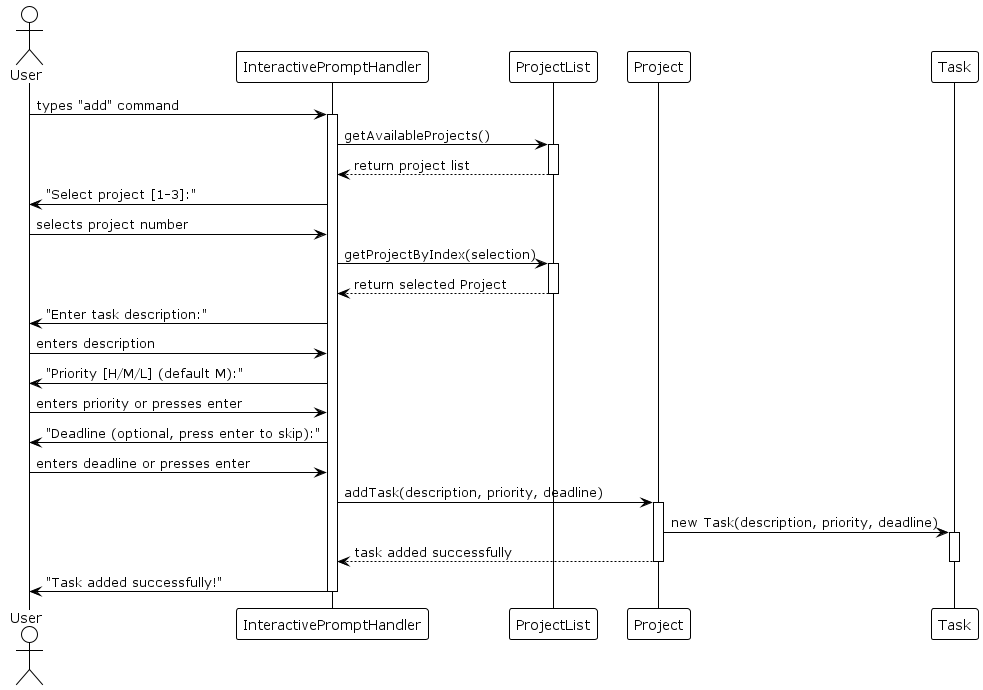
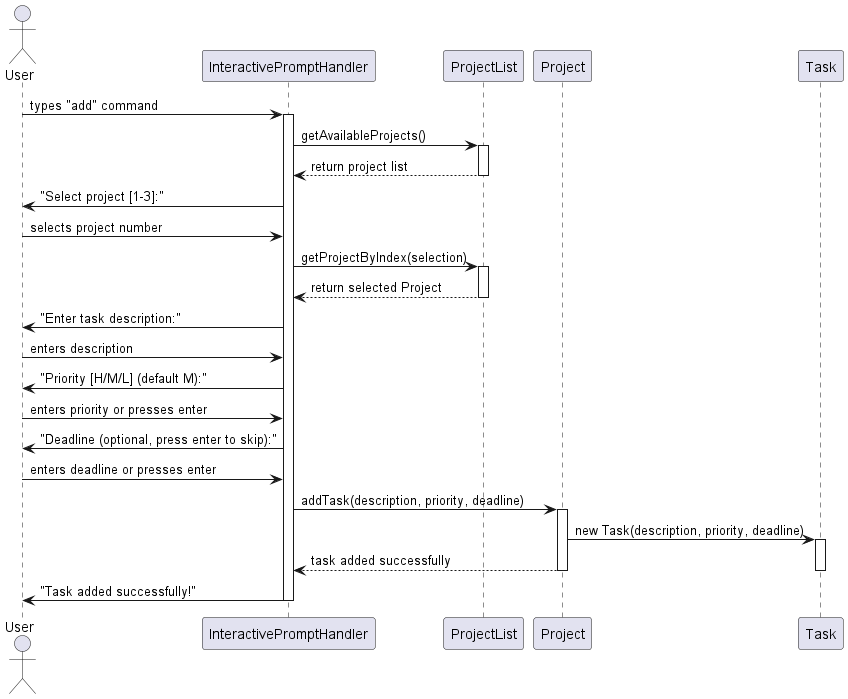
docs: Update UML diagrams and add project portfolio page
- Standardize all PlantUML diagrams to remove formatting inconsistencies
- Add comprehensive Project Portfolio Page for Yao Xiang
- Enable portfolio links in Developer Guide table of contents
- Ensure AB3 compliance for documentation standards

diff --git a/docs/DeveloperGuide.md b/docs/DeveloperGuide.md
@@ -37,7 +37,7 @@ We also acknowledge:
 
 ---
 
-## Architecture (Yao Xiang)
+## Architecture by [Yao Xiang](team/yaoxiang.md)
 
 FlowCLI follows a layered architecture with clear separation of concerns:
 
@@ -273,7 +273,7 @@ An ArrayList container of Project instances offering indexed access, name-lookup
 
 ### Data Processing
 
-#### Task Sorting Algorithm (Yao Xiang)
+#### Task Sorting Algorithm by [Yao Xiang](team/yaoxiang.md)
 
 The sorting algorithm supports sorting tasks by deadline or priority in ascending/descending order:
 
@@ -286,7 +286,7 @@ The sorting algorithm supports sorting tasks by deadline or priority in ascendin
 - **Deadline Handling**: Tasks without deadlines are sorted last in ascending order
 - **Priority Mapping**: High(1) > Medium(2) > Low(3)
 
-#### Task Filtering Algorithm (Yao Xiang)
+#### Task Filtering Algorithm by [Yao Xiang](team/yaoxiang.md)
 
 The filtering algorithm supports filtering tasks by priority level and/or project name:
 
@@ -299,9 +299,9 @@ The filtering algorithm supports filtering tasks by priority level and/or projec
 - **Case Insensitive**: Project name and priority filtering ignore case
 - **Multiple Filters**: Can combine priority and project name filters
 
-### Data Persistence (Sean)
+### Data Persistence by [Sean Lee](team/seanlee.md)
 
-#### Export Algorithm (Sean)
+#### Export Algorithm by [Sean Lee](team/seanlee.md)
 
 The export algorithm supports saving project and task data to text files with filtering and sorting capabilities:
 
@@ -336,7 +336,7 @@ ProjectName: [ ] Another Task [priority]
 
 ### **User Interface**
 
-### Interactive Mode (Yao Xiang)
+### Interactive Mode by [Yao Xiang](team/yaoxiang.md)
 
 ![Interactive Mode Overview](plantUML/interactive-mode-overview/interactive-mode-overview.png)
 
@@ -344,7 +344,7 @@ ProjectName: [ ] Another Task [priority]
 
 The interactive mode transforms single-word commands into guided conversations. When a user types "add" without arguments, the system prompts for project selection, task details, and optional fields.
 
-#### Command Processing Sequence (Yao Xiang)
+#### Command Processing Sequence by [Yao Xiang](team/yaoxiang.md)
 
 The overall command processing workflow shows how user input flows through the system components:
 
@@ -352,11 +352,11 @@ The overall command processing workflow shows how user input flows through the s
 
 **Architecture Flow**: User input → CommandHandler → InteractivePromptHandler (if needed) → CommandFactory → Command execution → Result display.
 
-#### Class Diagram: InteractivePromptHandler Structure (Yao Xiang)
+#### Class Diagram: InteractivePromptHandler Structure by [Yao Xiang](team/yaoxiang.md)
 
 ![InteractivePromptHandler Class Diagram](plantUML/interactive-prompt-handler/interactiveprompthandler.png)
 
-#### Interactive Mode Detection (Yao Xiang)
+#### Interactive Mode Detection by [Yao Xiang](team/yaoxiang.md)
 
 The `CommandHandler.shouldUseInteractiveMode()` method determines when to trigger interactive mode:
 
@@ -393,7 +393,7 @@ private boolean shouldUseInteractiveMode(CommandParser.ParsedCommand parsed) {
 
 **Decision Rationale**: Interactive mode is triggered for main commands with empty arguments, preserving backward compatibility.
 
-#### Task Status Display System (Zhen Zhao)
+#### Task Status Display System by [Zhen Zhao](team/zhenzhao.md)
 
 Tasks display completion status using visual markers:
 
@@ -421,9 +421,9 @@ public String toString() {
 3. [ ] Fix bug in parser [low]
 ```
 
-#### Interactive Command Flows (Yao Xiang)
+#### Interactive Command Flows by [Yao Xiang](team/yaoxiang.md)
 
-#### Add Command Flow (Yao Xiang)
+#### Add Command Flow by [Yao Xiang](team/yaoxiang.md)
 
 The add command guides users through project selection, task description, priority, and optional deadline:
 
@@ -436,13 +436,13 @@ The add command guides users through project selection, task description, priori
 - Optional priority (defaults to "medium")
 - Optional deadline with YYYY-MM-DD format validation
 
-#### Add Command State Flow (Yao Xiang)
+#### Add Command State Flow by [Yao Xiang](team/yaoxiang.md)
 
 ![Add Command State Diagram](plantUML/add-command-state/add-command-state.png)
 
 **Optional Fields**: Priority and deadline can be skipped, defaulting to "medium" and no deadline respectively.
 
-#### Mark/Unmark Command Flows (Yao Xiang)
+#### Mark/Unmark Command Flows by [Yao Xiang](team/yaoxiang.md)
 
 Mark and unmark commands share similar logic but with different validation:
 
@@ -472,7 +472,7 @@ public String handleMarkCommand() {
 - **Unmark**: Prevents unmarking already incomplete tasks
 - **Error Message**: "Your task is not even marked, what do you want me to unmark!"
 
-#### Delete Command Flow (Yao Xiang)
+#### Delete Command Flow by [Yao Xiang](team/yaoxiang.md)
 
 Delete command uses a two-stage approach: type selection then specific item selection with confirmation:
 
@@ -484,7 +484,7 @@ Delete command uses a two-stage approach: type selection then specific item sele
 - Clear project/task listing before selection
 - Case-insensitive confirmation ("y", "yes", "n", "no")
 
-#### Update Command Flow (Yao Xiang)
+#### Update Command Flow by [Yao Xiang](team/yaoxiang.md)
 
 Update command implements recursive field updates allowing multiple changes in one session:
 
@@ -492,7 +492,7 @@ Update command implements recursive field updates allowing multiple changes in o
 
 **Recursive Design**: Users can update multiple fields without restarting the flow, with options to reselect tasks/projects or exit at any point.
 
-#### Export Command Flow (Yao Xiang)
+#### Export Command Flow by [Yao Xiang](team/yaoxiang.md)
 
 The export command provides comprehensive data export capabilities with multiple filtering and sorting options. Users can export their project and task data in various formats and configurations.
 
@@ -514,7 +514,7 @@ The export command provides comprehensive data export capabilities with multiple
 
 ![Export Command State Diagram](plantUML/export-command/export-command-state-diagram.png)
 
-#### Create Command Flow (Yao Xiang)
+#### Create Command Flow by [Yao Xiang](team/yaoxiang.md)
 
 Create command prompts for a new project name with validation:
 
@@ -522,7 +522,7 @@ Create command prompts for a new project name with validation:
 
 **Validation**: Checks for empty names and duplicate project names.
 
-#### Mark/Unmark Command Flows (Yao Xiang)
+#### Mark/Unmark Command Flows by [Yao Xiang](team/yaoxiang.md)
 
 Mark and unmark commands follow identical selection flow with different validation:
 
@@ -530,7 +530,7 @@ Mark and unmark commands follow identical selection flow with different validati
 
 **Shared Logic**: Both commands use identical project/task selection but different validation rules.
 
-#### Sort Command Flow (Yao Xiang)
+#### Sort Command Flow by [Yao Xiang](team/yaoxiang.md)
 
 Sort command offers field and order selection:
 
@@ -538,7 +538,7 @@ Sort command offers field and order selection:
 
 **Simple Flow**: Two sequential choices with no complex validation.
 
-#### Filter Command Flow (Yao Xiang)
+#### Filter Command Flow by [Yao Xiang](team/yaoxiang.md)
 
 Filter command offers priority level selection:
 
@@ -546,13 +546,13 @@ Filter command offers priority level selection:
 
 **Single Choice**: Simple selection from three priority options.
 
-#### List Command Flow (Yao Xiang)
+#### List Command Flow by [Yao Xiang](team/yaoxiang.md)
 
 ![List Command State Diagram](plantUML/list-command-state/list-command-state.png)
 
 **Display Logic**: Shows numbered project list, then either displays tasks for selected project or all projects with all tasks.
 
-#### Status Command Flow (Yao Xiang)
+#### Status Command Flow by [Yao Xiang](team/yaoxiang.md)
 
 ![Status Command State Diagram](plantUML/status-command-state/status-command-state.png)
 
@@ -589,7 +589,7 @@ FlowCLI addresses the challenge of managing complex academic or personal project
 
 ---
 
-## Non-Functional Requirements (Zhen Zhao)
+## Non-Functional Requirements by [Zhen Zhao](team/zhenzhao.md)
 
 1. **Performance**
    - The application should respond to user commands within 500ms under normal operating conditions.

diff --git a/docs/team/yxiang-828.md b/docs/team/yxiang-828.md
@@ -1,0 +1,89 @@
+# Yao Xiang's Project Portfolio Page
+
+## Project: FlowCLI
+
+FlowCLI is a desktop task management application designed for university students to organize their academic projects and personal tasks. It features a command-line interface with an optional interactive mode for guided task management, supporting project creation, task CRUD operations, sorting, filtering, and data export capabilities. The application is written in Java and follows the Model-View-Controller architecture pattern.
+
+## Overview
+
+FlowCLI addresses the challenge of managing complex academic or personal projects by providing a streamlined, command-line interface for task and project organization. It helps student developers maintain focus, track progress, and efficiently handle multiple assignments or project phases without the overhead of graphical user interfaces. By offering quick task creation, flexible filtering, and clear status overviews, FlowCLI ensures that users can dedicate more time to coding and less to administrative overhead, ultimately boosting productivity and reducing stress.
+
+## Summary of Contributions
+
+### Code contributed
+
+[RepoSense link](https://nus-cs2113-ay2526s1.github.io/tp-dashboard/?search=yxiang-828&breakdown=true&sort=groupTitle%20dsc&sortWithin=title&since=2025-09-19T00%3A00%3A00&timeframe=commit&mergegroup=&groupSelect=groupByRepos&checkedFileTypes=docs~functional-code~test-code~other&filteredFileName=&tabOpen=true&tabType=zoom&zA=Yxiang-828&zR=AY2526S1-CS2113-W13-2%2Ftp%5Bmaster%5D&zACS=1113.8333333333333&zS=2025-09-19T00%3A00%3A00&zFS=yxiang-828&zU=2025-10-29T23%3A59%3A59&zMG=false&zFTF=commit&zFGS=groupByRepos&zFR=false)
+
+### Features / Enhancements implemented
+
+#### 1. Sorting / Filtering Inline Commands and Algorithms
+
+- **What it does**: Implements global task sorting and filtering functionality accessible via command-line interface, allowing users to organize and narrow down tasks across all projects.
+- **Justification**: Essential feature for task management applications to help users prioritize work and focus on relevant tasks in large project portfolios.
+- **Highlights**: Implemented efficient algorithms with O(n log n) sorting complexity and O(n) filtering complexity. Added comprehensive JUnit test coverage with 13 test cases. Integrated parameter validation and error handling for robust user experience.
+- **Code contributed**: `TaskSorter.java`, `TaskFilter.java`, `CommandHandler.java` (sort/filter command parsing), comprehensive test suite in `TaskSorterTest.java` and `TaskFilterTest.java`.
+
+#### 2. Interactive Mode Implementation
+
+- **What it does**: Transforms single-word commands into guided conversational interfaces, providing step-by-step prompts for complex operations without requiring users to remember full command syntax.
+- **Justification**: Reduces learning curve for new users and prevents command errors by guiding users through parameter collection with validation and clear options.
+- **Highlights**: Implemented 10+ interactive command flows with tsundere personality prompts, recursive field updates for multi-parameter editing, comprehensive input validation, and proper error handling. Integrated into existing command architecture without breaking backward compatibility.
+- **Code contributed**: `InteractivePromptHandler.java` (849+ lines), `CommandHandler.java` integration, all interactive command methods with validation logic.
+
+### Contributions to the User Guide
+
+- Updated command syntax documentation for sort and filter commands
+- Added interactive mode usage instructions and examples
+- Documented all new command parameters and options
+
+### Contributions to the Developer Guide
+
+- **Architecture Section**: Added detailed layered architecture explanation with interactive mode integration
+- **Implementation Section**: Documented sorting/filtering algorithms with complexity analysis, interactive mode implementation details with 4-layer breakdown
+- **UML Diagrams**: Created and maintained 16+ PlantUML diagrams including sequence diagrams, state diagrams, class diagrams, and activity diagrams
+- **Manual Testing**: Added comprehensive testing instructions with setup steps, sample data, and troubleshooting guide
+
+### Contributions to team-based tasks
+
+- **Documentation Standards**: Ensured AB3 compliance by standardizing author attributions and UML diagram formatting across DeveloperGuide.md
+- **Code Quality**: Fixed checkstyle violations and maintained coding standards throughout development
+- **Testing**: Added comprehensive JUnit tests and manual testing procedures
+
+### Review/mentoring contributions
+
+- Reviewed and merged team member pull requests for error handling and task management features
+- Provided guidance on interactive mode implementation and UML diagram standards
+- Assisted with merge conflict resolution and branch management
+
+### Contributions beyond the project team
+
+- Participated in class forum discussions on Java development best practices
+- Shared insights on PlantUML diagram creation and AB3 documentation standards
+
+## Key Commits and Pull Requests
+
+### Major Pull Requests:
+
+- **#74**: Developer guide updates with manual testing and UML diagrams
+- **#69**: Interactive mode implementation
+- **#51**: Full interactive mode feature with personality
+- **#19**: Sorting and filtering implementation
+- **#18**: Sorting & filtering feature
+- **#16**: Help command and error message improvements
+
+### Significant Commits:
+
+- Enhanced interactive mode error handling and user experience (53 lines changed)
+- Implemented comprehensive interactive mode for all commands (64 lines changed)
+- Added global task sorting and filtering (907 lines changed)
+- Added help command and improved error messages (723 lines changed)
+- Updated manual testing instructions (121 lines added)
+- Standardized UML diagram formatting across all diagrams
+
+## Tools and Technologies
+
+- **PlantUML**: Created professional UML diagrams for documentation
+- **JUnit**: Comprehensive test coverage for new features
+- **Git/GitHub**: Branch management, pull requests, and code reviews
+- **Checkstyle**: Maintained code quality standards
+- **Gradle**: Build system and dependency management
